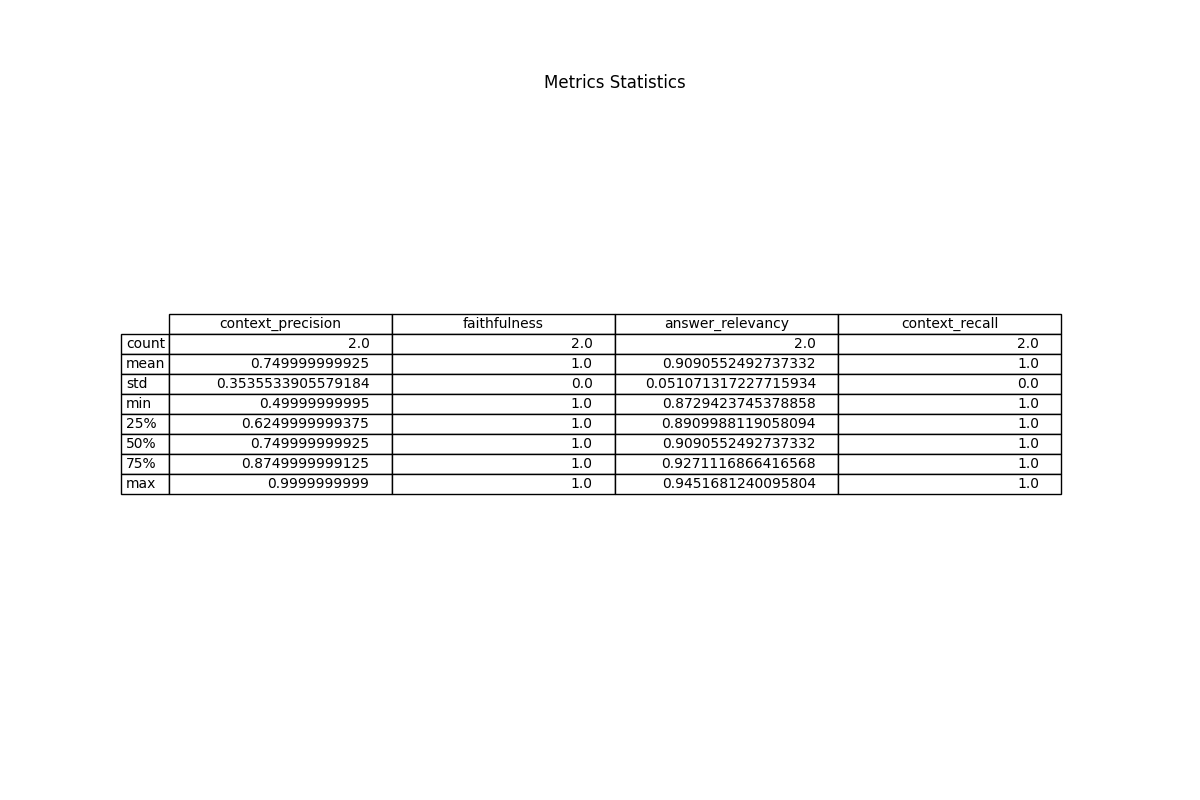
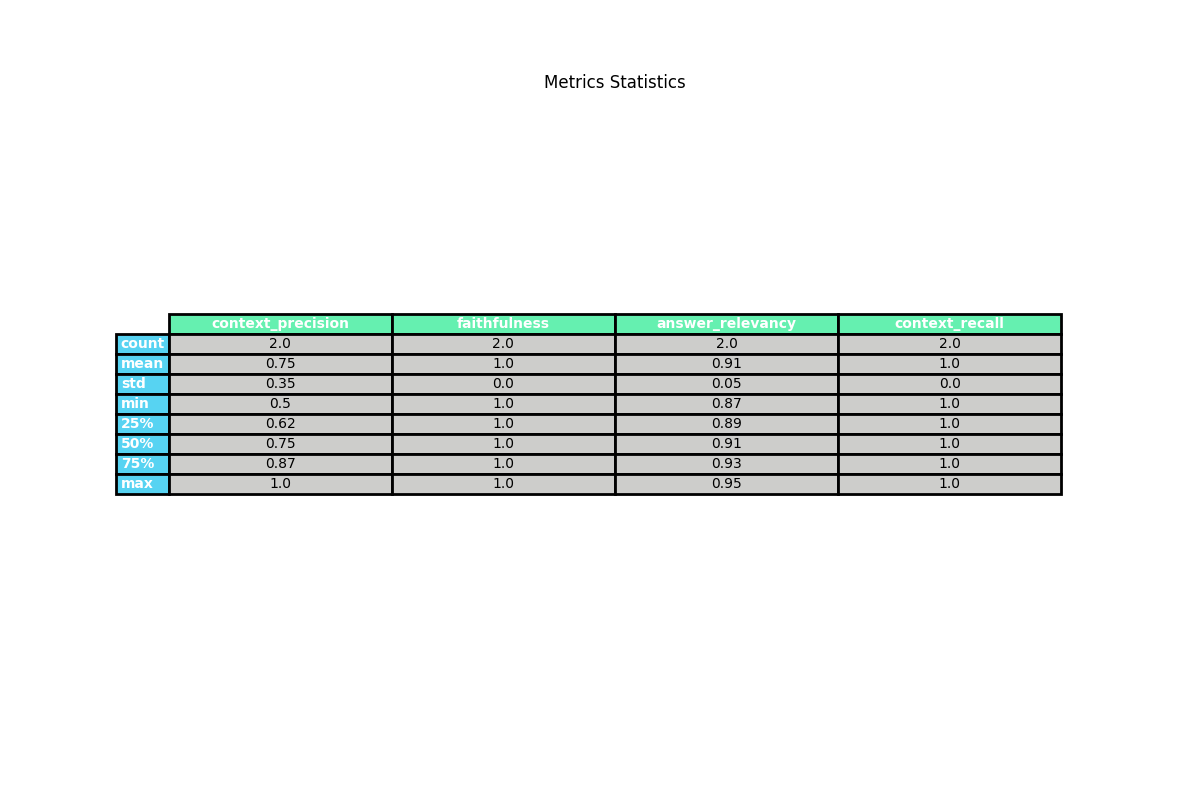
visual reports created

Changed region(s): [[0.0925, 0.375, 0.8942, 0.625]]

diff --git a/src/RAG_EVAL/testset.py b/src/RAG_EVAL/testset.py
@@ -23,8 +23,6 @@ from ragas.metrics import (
 from ragas import evaluate
 import matplotlib.pyplot as plt
 import seaborn as sns
-import numpy as np
-from pandas.plotting import table
 
 
 # Logging configuration
@@ -63,7 +61,7 @@ class RagasEval:
         except Exception as e:
             logger.error(f"Error while pulling HG RAGAS testset {e}")
             
-    def run(self, results_file_path : str, get_analysis : bool = False):
+    def run(self, results_file_path : str, get_visual_reports : bool = False):
         if self.testset:
             result = evaluate(
                                 self.testset["train"],
@@ -79,12 +77,61 @@ class RagasEval:
                 logger.info(f"Ragas Eval result dataframe :\n{self.results_df.head()}\n{self.results_df.columns=}\n{self.results_df.shape=}")
                 
                 # Process results df : add question id and make metrics list for generaating reports and figures
-                self.process_results_df()
                 self._save_df(file_path=results_file_path)
                 
-                if get_analysis:
-                    logger.info("Getting visual report analysis ... ")
+                if get_visual_reports:
+                    # Scatter plots of the metrics for each question id
+                    RagasEval.get_scatter_plot(
+                        title="Context precison", 
+                        df=self.results_df, 
+                        column="context_precison",
+                        directory=os.path.dirname(results_file_path),
+                        file_name="context_precison.png"
+                        )
+                    RagasEval.get_scatter_plot(
+                        title="Faithfulness", 
+                        df=self.results_df, 
+                        column="faithfulness",
+                        directory=os.path.dirname(results_file_path),
+                        file_name="faithfulness.png"
+                        )
+                    RagasEval.get_scatter_plot(
+                        title="Answer relevancy", 
+                        df=self.results_df, 
+                        column="answer_relevancy",
+                        directory=os.path.dirname(results_file_path),
+                        file_name="answer_relevancy.png"
+                        )
+                    RagasEval.get_scatter_plot(
+                        title="Context Recall", 
+                        df=self.results_df, 
+                        column="context_recall",
+                        directory=os.path.dirname(results_file_path),
+                        file_name="context_recall.png"
+                        )
+                    
+                    # Generate df with only columns of metrics results
+                    required_columns = ['context_precision', 'faithfulness', 'answer_relevancy', 'context_recall']
+                    self.stats_df = self.results_df.select_dtypes('number')[required_columns].describe().round(decimals=2)
+                    RagasEval.get_table_plot(
+                                df=self.results_df[required_columns], 
+                                title="RAGAS Test Set", 
+                                directory=os.path.dirname(results_file_path),
+                                file_name="ragas_testset.png"
+                                )
+                    
+                    # Stats dataframe
+                    self.stats_df = self.results_df.select_dtypes('number').describe()
+                    RagasEval.get_table_plot(
+                                df=self.stats_df , 
+                                title="RAGAS Metrics Statistics", 
+                                directory=os.path.dirname(results_file_path),
+                                file_name="metrics_statistics.png"
+                                )
+                    
+                    logger.info("Getting means and distribution reports visual analysis ... ")
                     self.get_visual_report(df=self.results_df, output_file=results_file_path)
+                    logger.info(f"Reports saved as {os.path.dirname(results_file_path)}")
                 
             except Exception as e:
                 logger.exception(f"Error while cretaing result dataframe")
@@ -109,20 +156,6 @@ class RagasEval:
         self.results_df.to_csv(path_or_buf=file_path, index=False)
         logger.info(f"DataFrame saved to CSV at: {file_path}")
         
-    def process_results_df(self):
-        self.question_id = []
-        self.context_precision = []
-        self.faithfulness = []
-        self.answer_relevancy = []
-        self.context_recall = []
-        for index , row in enumerate(self.results_df.iterrows()):
-            logger.debug(f"row : {row}")
-            self.results_df.loc[index,"question_id"] = int(index + 1)
-            self.question_id.append(index + 1)
-            self.context_precision.append(row[1]["context_precision"])
-            self.faithfulness.append(row[1]["faithfulness"])
-            self.answer_relevancy.append(row[1]["answer_relevancy"])
-            self.context_recall.append(row[1]["context_recall"])
     
     def get_visual_report(self, df, output_file):
         """
@@ -148,12 +181,10 @@ class RagasEval:
         summary_stats['variance'] = df_numeric.var()
         summary_stats['range'] = df_numeric.max() - df_numeric.min()
         
-
         # Boxplot for distributions
         plt.figure(figsize=(12, 8))
         sns.boxplot(data=df_numeric)
         plt.title('Metrics Distribution')
-        # Save the figure
         plt.savefig(directory + "/metrics_distributions.png")
         plt.close()
 
@@ -163,40 +194,62 @@ class RagasEval:
         plt.title('Mean of Metrics')
         plt.ylabel('Mean')
         plt.grid()
-        # Save the figure
         plt.savefig(directory + "/metrics_means.png")
         plt.close()
 
-        # Summary statistics table
-        plt.figure(figsize=(12, 8))
-        plt.axis('off')
-        tbl = table(plt.gca(), summary_stats, loc='center', colWidths=[0.2]*len(summary_stats.columns))
-        tbl.auto_set_font_size(False)
-        tbl.set_fontsize(10)
-        tbl.scale(1.2, 1.2)
-        plt.title('Summary Statistics')
-        # Save the figure
-        plt.savefig(directory + "/metrics_stats.png")
-        plt.close()
-
-        # Adjust layout to prevent overlap
-        # plt.tight_layout(rect=[0, 0, 1, 0.95])
-
-        logger.info(f"Report saved as {directory}")
+    @staticmethod
+    def get_scatter_plot(title : str , df : pd.DataFrame, column : str, directory : str,  file_name :str):
+        plt.figure(figsize=(10, 8))
+        plot = True
+        try: 
+            plt.scatter(range(1,df.shape[0]+1), df[column], color='blue', marker='o')
+        except Exception as e:
+            logger.error(f"{e}")
+            plot = False
+        if plot:
+            plt.title(f'{title}', fontsize=16 )
+            plt.grid(True)
+            plt.xlabel('Query ID', fontsize=12)
+            plt.ylabel(f"{title}", fontsize=12)
+            plt.savefig(directory + "/" + file_name)
         
     @staticmethod
-    def get_scatter_plot(title : str , x : list, y : list, directory : str,  file_name :str):
-        plt.figure(figsize=(10, 8))
-        plt.scatter(x, y, color='blue', marker='o')
-        plt.title(f'{title}', fontsize=16 )
-        plt.grid(True)
-        plt.xlabel('Query ID', fontsize=12)
-        plt.ylabel(f"{title}", fontsize=12)
-        plt.savefig(directory + "/" + file_name)
+    def get_table_plot(df : pd.DataFrame , title : str, directory : str,  file_name :str):
+
+        plt.figure(figsize=(12, 8))
+        plt.axis('off')
+        
+        cell_text = df.values.tolist() # Convert summary statistics to a 2D list for the table
+        tbl = plt.table(
+            cellText=cell_text,
+            colLabels=df.columns,
+            rowLabels=df.index,
+            cellLoc='center',
+            colWidths=[0.2] * len(df.columns),
+            colColours=['#65f0b0'] * len(df.columns),
+            rowColours=['#57d3f2'] * df.shape[0],
+            loc='center'
+        )
+        # Customize the table
+        tbl.auto_set_font_size(False)
+        tbl.set_fontsize(10)  # Set font size
+        tbl.scale(1.2, 1.2)  # Scale table size
+        
+        # Customize headers and body table separately
+        for key, cell in tbl.get_celld().items():
+            if key[0] == 0 or key[1] == -1:
+                cell.set_text_props(weight='bold', color="black")
+                cell.set_edgecolor(color='black')
+            else:
+                cell.set_color(c='#cdcdcb')
+                cell.set_edgecolor(color='black')
+            cell.set_linewidth(2)
+        
+        plt.title(f'{title}')
+        plt.savefig(directory +"/"+file_name)
                     
                     
 # Synthetic RAGAS testset generation : 
-
 def parse_date(date_str: str) -> datetime:
     """
     Parses a date string into a datetime object.

diff --git a/src/main_rag_eval.py b/src/main_rag_eval.py
@@ -26,7 +26,7 @@ def main() -> None:
         hg_token=str(os.getenv('HG_API_KEY')),
         dataset_name="20240830133239"
         )
-    ragas_evaluation.run(results_file_path="./data/rag evaluation/results/results.csv", get_analysis=True)
+    ragas_evaluation.run(results_file_path="./data/rag evaluation/results/results.csv", get_visual_reports=True)
     
 if __name__ == "__main__":
     main()
